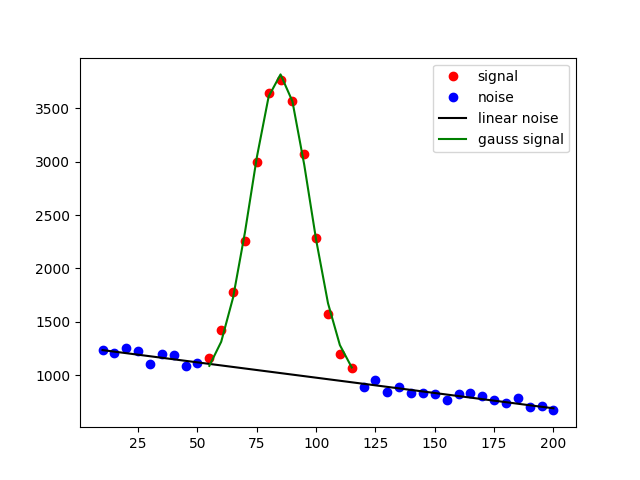
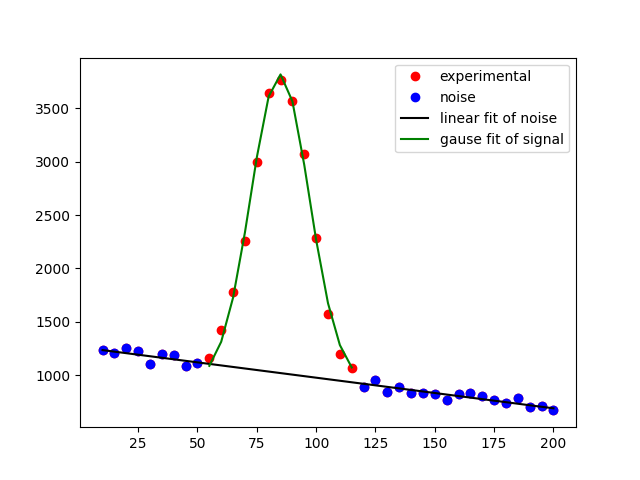
started with t3

diff --git a/t1/task1.py b/t1/task1.py
@@ -7,13 +7,15 @@ from scipy.stats import norm
 import math
 
 d = [
-        10, 1236, 15, 1205, 20,1253 , 25,1223, 30,1109, 35,1202, 40,1189, 45,1084,
-        50,1113, 55,1158, 60,1423, 65,1783, 70,2259, 75,3000, 80,3648, 85,3769,
-        90,3572, 95,3068, 100,2289, 105,1574, 110,1197, 115,1068, 120,893, 125,958,
-        130,840, 135,891, 140,836, 145,832, 150,827, 155,764, 160,825, 165,837,
-        170,806, 175,765, 180,740, 185,784, 190,702, 195,708, 200,671
-    ]
+    10, 1236, 15, 1205, 20, 1253, 25, 1223, 30, 1109, 35, 1202, 40, 1189, 45, 1084,
+    50, 1113, 55, 1158, 60, 1423, 65, 1783, 70, 2259, 75, 3000, 80, 3648, 85, 3769,
+    90, 3572, 95, 3068, 100, 2289, 105, 1574, 110, 1197, 115, 1068, 120, 893, 125, 958,
+    130, 840, 135, 891, 140, 836, 145, 832, 150, 827, 155, 764, 160, 825, 165, 837,
+    170, 806, 175, 765, 180, 740, 185, 784, 190, 702, 195, 708, 200, 671
+]
 print(len(d))
+
+
 class AnylizePeaks:
     def __init__(self, x_data, y_data):
         self.x_data = x_data
@@ -22,12 +24,13 @@ class AnylizePeaks:
         self.lr = linear_model.LinearRegression()
         # self.lr = linear_model.RidgeClassifier()
         # self.lr = linear_model.Ridge(alpha=.5)
+
     @classmethod
     def prepare_xy_data(cls, xy_arr):
         x_data = []
         y_data = []
         for n, i in enumerate(xy_arr, start=1):
-            if n%2==0:
+            if n % 2 == 0:
                 y_data.append(i)
             else:
                 x_data.append(i)
@@ -40,35 +43,38 @@ class AnylizePeaks:
             for i in range(len(self.x_data)):
                 f.write(f"{self.x_data[i]}\t{self.y_data[i]}\n")
 
-    def msd(self):  #* average background noise value
-        msd = math.sqrt(sum([(i-self.y_mean)**2 for i in self.y_data])/len(self.y_data))
+    def msd(self):  # * average background noise value
+        msd = math.sqrt(
+            sum([(i-self.y_mean)**2 for i in self.y_data])/len(self.y_data))
         # msd = math.sqrt(sum([(i-self.y_mean)**2 for i in self.y_data])/len(self.y_data)-1)
         return msd
 
     def half_peak(self, max_value):
         return max_value/2
 
-    def find_closest_points(self,value):
+    def find_closest_points(self, value):
         left = []
         right = []
         for i in range(len(self.y_data)-1):
             if value > self.y_data[i] and value < self.y_data[i+1]:
-                left = [[self.x_data[i], self.y_data[i]], [self.x_data[i+1], self.y_data[i+1]]] 
+                left = [[self.x_data[i], self.y_data[i]],
+                        [self.x_data[i+1], self.y_data[i+1]]]
             elif value < self.y_data[i] and value > self.y_data[i+1]:
-                right = [[self.x_data[i+1], self.y_data[i+1]], [self.x_data[i], self.y_data[i]]]
+                right = [[self.x_data[i+1], self.y_data[i+1]],
+                         [self.x_data[i], self.y_data[i]]]
         print(left, right)
         return left, right
 
     def find_line_equation(self, array):
         x = [array[0][0], array[1][0]]
         y = [array[0][1], array[1][1]]
-        A = np.vstack([x, np.ones(len(x))]).T  #* prerare matrix A
+        A = np.vstack([x, np.ones(len(x))]).T  # * prerare matrix A
         m, c = np.linalg.lstsq(A, y, rcond=None)[0]
         print(m, c)
-        return m,c
+        return m, c
 
     def get_peak_width(self):
-        
+
         return
 
     def separate_peak_noise(self, width):
@@ -84,13 +90,14 @@ class AnylizePeaks:
                 noise_x.append(self.x_data[i])
                 noise_y.append(self.y_data[i])
         return np.array(signal_x), np.array(signal_y), np.array(noise_x), np.array(noise_y)
-    
+
     def linear_regression(self, x, y):
-        resh_x = x.reshape((-1,1))  #* reshape to [[val1], [val2], ... [valn]]
+        # * reshape to [[val1], [val2], ... [valn]]
+        resh_x = x.reshape((-1, 1))
         reg = self.lr.fit(resh_x, y)
         linear_y = reg.predict(resh_x)
         return linear_y
-    
+
     def gauss(self, x, a, x0, sigma):
         return a*np.exp(-(x-x0)**2/(2*sigma**2))
 
@@ -110,9 +117,9 @@ class AnylizePeaks:
 
 
 # if __name__ == '__main__':
-ap = AnylizePeaks.prepare_xy_data(d) 
+ap = AnylizePeaks.prepare_xy_data(d)
 
-plt.plot(ap.x_data, ap.y_data, "ro", label="experimental")
+# plt.plot(ap.x_data, ap.y_data, "ro", label="experimental")
 half_heigth = ap.half_peak(ap.y_data.max())
 # plt.hlines(y=half_heigth, xmin=ap.x_data[0], xmax=ap.x_data[-1])
 
@@ -120,42 +127,43 @@ left_closest, right_closest = ap.find_closest_points(half_heigth)
 left_m, left_c = ap.find_line_equation(left_closest)
 right_m, right_c = ap.find_line_equation(right_closest)
 
-left_line_range = np.array([60,90])
-right_line_range = np.array([85,110])
+left_line_range = np.array([60, 90])
+right_line_range = np.array([85, 110])
 
 # plt.plot(left_line_range, left_m*left_line_range+left_c, "green", label="left_line")
 # plt.plot(right_line_range, right_m*right_line_range+right_c, "green", label="right_line")
 
-signal_width = [55,115]
+signal_width = [55, 115]
 
 signal_x, signal_y, noise_x, noise_y = ap.separate_peak_noise(signal_width)
 
-# plt.plot(signal_x, signal_y, "ro", label="signal")
-# plt.plot(noise_x, noise_y, "bo", label="noise")
+plt.plot(signal_x, signal_y, "ro", label="signal")
+plt.plot(noise_x, noise_y, "bo", label="noise")
 
 linear_y_noise = ap.linear_regression(noise_x, noise_y)
-# plt.plot(noise_x, linear_y_noise, "black", label="linear noise")
+# plt.plot(noise_x, linear_y_noise, "black", label="linear fit of noise")
 chi_linear = ap.get_chi(noise_y, linear_y_noise)
-print(chi_linear)
-
+print("chi linear - ", chi_linear)
 
 
 denoised_signal_y = signal_y-linear_y_noise.mean()
 # plt.plot(signal_x, denoised_signal_y, "go", label="signal")
 
 
-y_signal_noise_p, y_signal_noise_m = signal_y*1.05, signal_y*0.95 
+y_signal_noise_p, y_signal_noise_m = signal_y*1.05, signal_y*0.95
 y_gauss_signal = ap.gauss_appr(signal_x, denoised_signal_y)
 y_gauss_signal_p = ap.gauss_appr(signal_x, y_signal_noise_p)
 y_gauss_signal_m = ap.gauss_appr(signal_x, y_signal_noise_m)
 y_gauss_true_signal = y_gauss_signal+linear_y_noise.mean()
-# plt.plot(signal_x, y_gauss_true_signal, "green", label="gauss signal")
+# plt.plot(signal_x, y_gauss_true_signal, "green", label="gause fit of signal")
 chi_gauss = ap.get_chi(signal_y, y_gauss_true_signal)
-print(chi_gauss)
-print(f"S/N raio is {signal_y.max()/noise_y.mean()}")
-print(np.random.chisquare(38,1))
+print("lengths of gausse/linear arrays",
+      len(y_gauss_signal), len(linear_y_noise))
+print("chi gause - ", chi_gauss)
+print(f"S/N raio is {2*signal_y.max()/noise_y.mean()}")
+print(np.random.chisquare(38, 1))
 # ap.export_data()
-#* doing automate peaks, width search
+# * doing automate peaks, width search
 # peaks, _ = find_peaks(ap.y_data, height=(1500, 5000))
 # print(f"peak indice {peaks}")
 # width = peak_widths(ap.y_data, peaks, rel_height=1)
@@ -169,13 +177,13 @@ print(np.random.chisquare(38,1))
 # plt.hlines(y_value_width, x_width0, x_width1, color="C3")
 
 
-#* fit for automating founded peaks
-# y_gauss_signal = ap.gauss_appr(ap.x_data[math.ceil(x_value_indices0[0]):math.ceil(x_value_indices1[0])], 
+# * fit for automating founded peaks
+# y_gauss_signal = ap.gauss_appr(ap.x_data[math.ceil(x_value_indices0[0]):math.ceil(x_value_indices1[0])],
 #     ap.y_data[math.ceil(x_value_indices0[0]):math.ceil(x_value_indices1[0])])
 # plt.plot(ap.x_data[math.ceil(x_value_indices0[0]):math.ceil(x_value_indices1[0])], y_gauss_signal, "C5", label="gauss signal")
 # chi_gauss = ap.get_chi(ap.y_data[math.ceil(x_value_indices0[0]):math.ceil(x_value_indices1[0])], y_gauss_signal)
 # print(chi_gauss)
 
 plt.legend()
-plt.savefig("0.png")
+plt.savefig("000.png")
 # plt.savefig("4.png")

diff --git a/t3/task3.py b/t3/task3.py
@@ -1,0 +1,18 @@
+import math
+
+sd = 80
+E0 = 660
+s0 = 25
+
+
+def simulate_spectrometer(sd, s0, E0, E):
+    # H = 1/(2*3.14*sd*s0) * \
+    #     math.exp(-(((E-E0)**2)/(2*sd**2))-(((E-E0)**2)/(2*s0**2)))
+    H = 1/(2*3.14*sd*s0) * \
+        math.exp(-(((E-E0)**2)/(2*sd**2))-(((E-E0)**2)/(2*s0**2)))
+    print(H)
+    return
+
+
+if __name__ == '__main__':
+    simulate_spectrometer(sd, s0, E0, 660)
